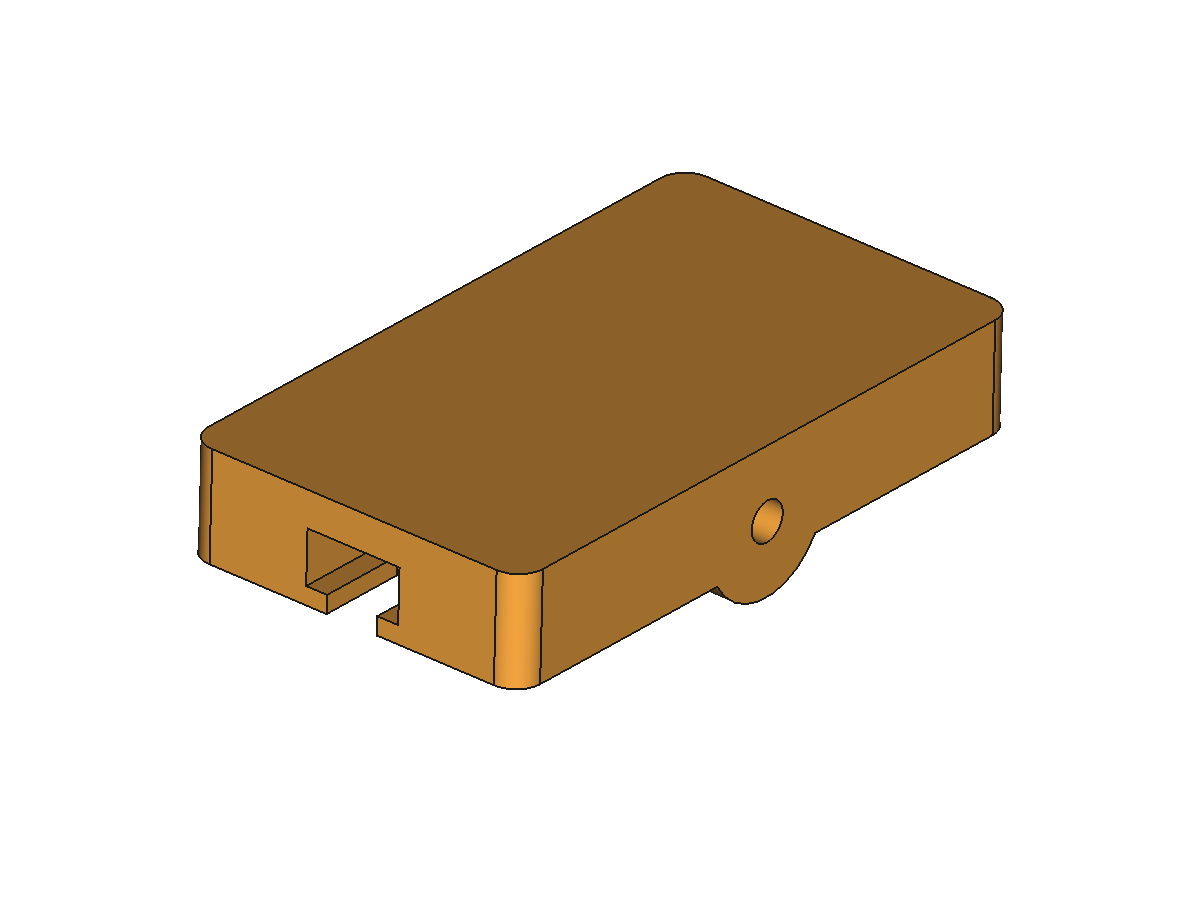
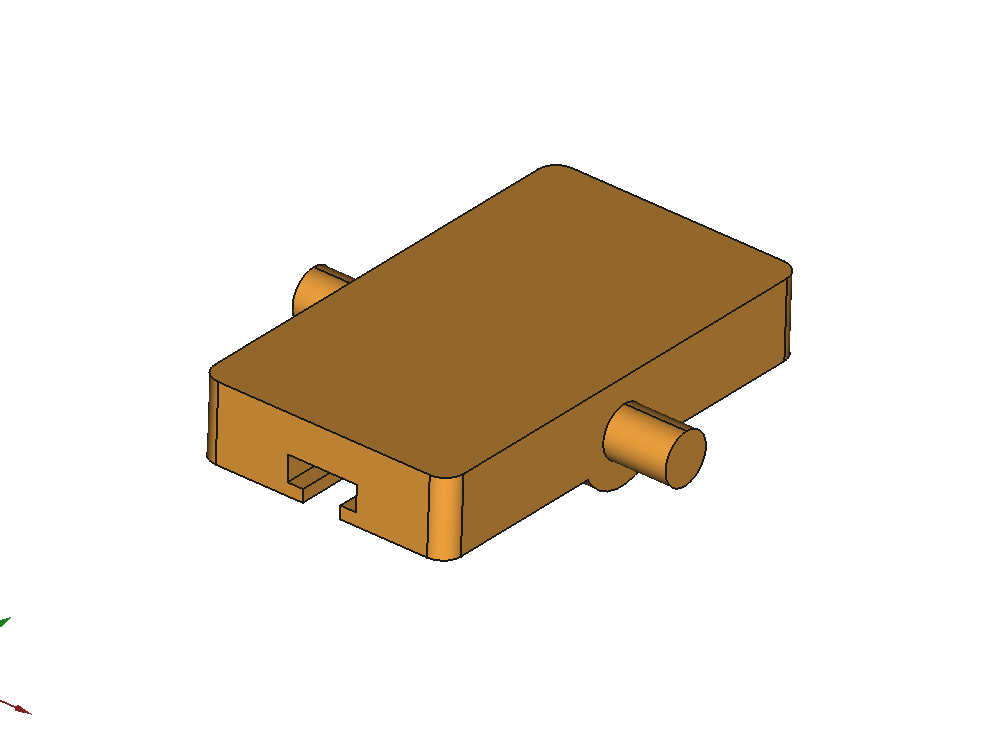
SwitchToggle: refresh remaining docs/ screenshots for v9
The 9 per-part detail shots in docs/ (referenced from DESIGN.md's
screenshot table) were v6/v7-era — predating the PivotClip entirely.
The old lever/frontplate shots showed the removed M2 pivot pin and
integral posts, neither of which exist since v8.

- Re-rendered Shell, FrontPlate, and Lever shots against the current
  model. Dropped assembly_isometric.png/assembly_side.png (now
  redundant with the v9_assembly_* set from the previous commit).
  Renamed frontplate_front.png -> frontplate_isometric.png since the
  flat edge-on front view of a 3mm plate wasn't informative; an
  isometric view showing the mortise pockets is.
- Added shell_isometric.png, pivotclip_isometric.png, and
  pivotclip_profile.png (the "keyhole" slot/bore profile) — the
  PivotClip didn't exist in the old doc set at all.
- Updated DESIGN.md's screenshot table to match.

diff --git a/SwitchToggle/DESIGN.md b/SwitchToggle/DESIGN.md
@@ -269,17 +269,24 @@ See `PLAN_v2.md`.
 
 ## Reference Screenshots (`docs/`)
 
+All current as of v9 (2026-07-03).
+
 | File | Shows |
 |------|-------|
-| `assembly_isometric.png` | Full three-part assembly, isometric |
-| `assembly_side.png` | Assembly side view — lever cylinder + post relationship |
+| `v9_assembly_iso.png` | Full four-part assembly, isometric |
+| `v9_assembly_front.png` | Assembly front elevation — T-slot, PivotClips either side of lever |
+| `v9_assembly_side.png` | Assembly side elevation — pivot bore clearance above the FrontPlate face |
+| `v9_assembly_top.png` | Assembly top-down isometric — FrontPlate mount holes + PivotClips either side of lever |
+| `shell_isometric.png` | Shell — interior, rod slot, cable hole, alignment pegs, M3 mount holes |
 | `shell_back.png` | Shell back face — rod slot, cable hole, M3 holes |
 | `shell_left.png` | Shell left side — top LED hole in left wall (Y=38) |
 | `shell_right.png` | Shell right side — bottom LED hole in right wall (Y=12) |
-| `frontplate_front.png` | FrontPlate front face — posts, pin holes, rod clearance slot |
-| `lever_isometric.png` | Lever — T-slot entry visible |
+| `frontplate_isometric.png` | FrontPlate — mortise pockets (v8+; no integral posts), rod clearance slot |
+| `lever_isometric.png` | Lever — stub axles (v8+; no pivot pin), T-slot entry visible |
 | `lever_back.png` | Lever — smooth operator face |
-| `lever_fascia.png` | Lever — cylinder protrusion + T-slot profile |
+| `lever_fascia.png` | Lever — fascia face: cylinder protrusion + T-slot profile |
+| `pivotclip_isometric.png` | PivotClip — tang, bore, entry slot, fillets/chamfers (v9) |
+| `pivotclip_profile.png` | PivotClip — "keyhole" profile: entry slot narrowing into the bore |
 
 ---
 
